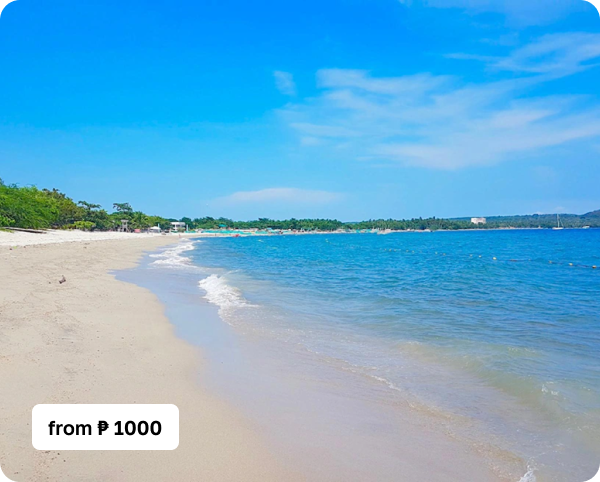
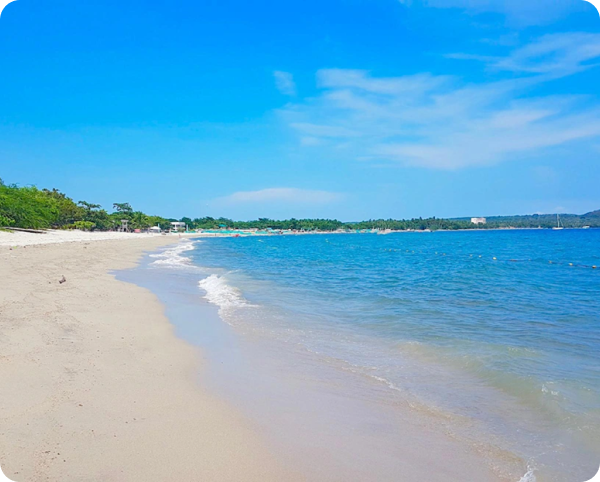
feat: add price overlay to destination images for better visibility of pricing

Changed region(s): [[0.03, 0.8402, 0.3, 0.9336]]

diff --git a/css/destination.css b/css/destination.css
@@ -154,12 +154,38 @@ nav ul li a{
     box-sizing: border-box;
     margin-top: 25px;
     margin-bottom: 25px;
+    position: relative;
 }
 
 .destination-img {
     width: auto;
     height: auto;
     margin-right: 20px;
+}
+
+.price-overlay{
+  position: absolute;
+  top: 419px;
+  left: 25px;
+  width: 170px;
+  height: 40px;
+  background: rgb(255, 255, 255);
+  border-radius: 10px;
+  display: flex;
+  justify-content: center;
+}
+
+.price-overlay h2{
+  color: #000000;
+  font-size: 23px;
+  padding: 5px 5px;
+}
+
+.from-color{
+  color: rgb(87, 87, 87);
+  font-size: 23px;
+  font-weight: 600;
+  padding:  5px 5px;
 }
 
 .details {

diff --git a/sanjuan.php b/sanjuan.php
@@ -66,6 +66,9 @@ $result = $conn->query($sql);
     <div class="destination-container">
         <div class="destination-img">
             <img src="icons/sanjuan-d1.png">
+            <div class="price-overlay">
+                <p class="from-color">from</p> <h2>₱ 2500</h2>
+            </div>
         </div>
 
         <div class="details">
